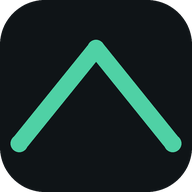
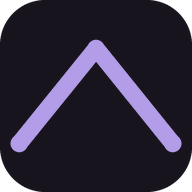
Add files via upload

Changed region(s): [[0.0312, 0.1875, 0.9688, 0.8125]]

diff --git a/index.html b/index.html
@@ -4,7 +4,7 @@
 <meta charset="UTF-8">
 <meta name="viewport" content="width=device-width, initial-scale=1.0, viewport-fit=cover">
 <title>AscentFinancials</title>
-<meta name="theme-color" content="#0F1417">
+<meta name="theme-color" content="#17141D">
 <meta name="mobile-web-app-capable" content="yes">
 <meta name="apple-mobile-web-app-capable" content="yes">
 <meta name="apple-mobile-web-app-status-bar-style" content="black-translucent">
@@ -21,17 +21,17 @@
    La app se usa de noche, en la calle, antes de gastar.
    ══════════════════════════════════════════════════════════ */
 :root{
-  --noche:#0F1417;      /* fondo */
-  --carbon:#171E23;     /* superficie */
-  --carbon2:#1E272D;    /* superficie elevada */
-  --linea:#2A353D;
-  --tiza:#E9EFF2;       /* texto */
-  --humo:#8496A2;       /* texto secundario */
-  --tenue:#54646F;
-  --salida:#4FD1A5;     /* SOLO la fecha de salida y el progreso */
-  --alerta:#F2A93B;
-  --sangre:#E4574B;
-  --sombra:0 2px 14px rgba(0,0,0,.35);
+  --noche:#17141D;      /* fondo */
+  --carbon:#211C2B;     /* superficie */
+  --carbon2:#2A2436;    /* superficie elevada */
+  --linea:#403852;
+  --tiza:#EDE9F5;       /* texto */
+  --humo:#A79CBA;       /* texto secundario */
+  --tenue:#786E8C;
+  --salida:#B39DE8;     /* SOLO la fecha de salida y el progreso */
+  --alerta:#F0C862;
+  --sangre:#FF8A8A;
+  --sombra:0 2px 14px rgba(0,0,0,.45);
   --r:16px;
 }
 *{box-sizing:border-box;margin:0;padding:0;-webkit-tap-highlight-color:transparent}
@@ -64,8 +64,8 @@ header{padding:22px 0 4px;display:flex;justify-content:space-between;align-items
 .cabecera-der{display:flex;align-items:center;gap:9px}
 .nube{font-size:11px;padding:5px 9px;border-radius:99px;border:1px solid var(--linea);
   color:var(--humo);background:var(--carbon);white-space:nowrap}
-.nube.ok{border-color:rgba(79,209,165,.4);color:var(--salida)}
-.nube.pend{border-color:rgba(242,169,59,.4);color:var(--alerta)}
+.nube.ok{border-color:rgba(179,157,232,.4);color:var(--salida)}
+.nube.pend{border-color:rgba(240,200,98,.4);color:var(--alerta)}
 
 /* ─── HERO: la fecha de salida ─── */
 .hero{padding:26px 0 4px}
@@ -86,7 +86,7 @@ header{padding:22px 0 4px;display:flex;justify-content:space-between;align-items
 .stat{background:var(--carbon);border:1px solid var(--linea);border-radius:13px;padding:12px 10px}
 .stat .v{font-size:19px;font-weight:600;letter-spacing:-.02em;margin-top:5px}
 .stat .l{font-size:10px;color:var(--tenue);line-height:1.3;letter-spacing:.04em}
-.stat.aviso{border-color:rgba(242,169,59,.45);background:rgba(242,169,59,.07)}
+.stat.aviso{border-color:rgba(240,200,98,.45);background:rgba(240,200,98,.07)}
 .stat.aviso .v{color:var(--alerta)}
 
 /* ─── barras ─── */
@@ -107,15 +107,15 @@ header{padding:22px 0 4px;display:flex;justify-content:space-between;align-items
 .neg{color:var(--tiza)}
 .chip{display:inline-block;font-size:9.5px;font-weight:600;letter-spacing:.06em;text-transform:uppercase;
   padding:2px 6px;border-radius:5px;margin-left:6px;vertical-align:1px}
-.chip.inv{background:rgba(242,169,59,.16);color:var(--alerta)}
-.chip.ext{background:rgba(79,209,165,.16);color:var(--salida)}
-.chip.rul{background:rgba(228,87,75,.16);color:var(--sangre)}
+.chip.inv{background:rgba(240,200,98,.16);color:var(--alerta)}
+.chip.ext{background:rgba(179,157,232,.16);color:var(--salida)}
+.chip.rul{background:rgba(255,138,138,.16);color:var(--sangre)}
 
 /* ─── aviso ─── */
 .aviso-bloque{border-radius:13px;padding:13px 14px;font-size:13px;line-height:1.4;margin-top:10px}
-.aviso-bloque.rojo{background:rgba(228,87,75,.1);border:1px solid rgba(228,87,75,.3);color:#F2A79E}
-.aviso-bloque.ambar{background:rgba(242,169,59,.09);border:1px solid rgba(242,169,59,.28);color:#F0C583}
-.aviso-bloque.verde{background:rgba(79,209,165,.09);border:1px solid rgba(79,209,165,.28);color:#9BE3CB}
+.aviso-bloque.rojo{background:rgba(255,138,138,.1);border:1px solid rgba(255,138,138,.3);color:#FFB3B3}
+.aviso-bloque.ambar{background:rgba(240,200,98,.09);border:1px solid rgba(240,200,98,.28);color:#F7DFA6}
+.aviso-bloque.verde{background:rgba(123,227,174,.09);border:1px solid rgba(123,227,174,.28);color:#A6EDC9}
 .aviso-bloque b{font-weight:600}
 
 /* ─── navegación ─── */
@@ -128,8 +128,8 @@ nav{position:fixed;bottom:0;left:0;right:0;background:rgba(15,20,23,.94);
 .nav-b svg{display:block;margin:0 auto 3px;width:20px;height:20px;stroke:currentColor;fill:none;stroke-width:1.7;stroke-linecap:round;stroke-linejoin:round}
 
 .fab{position:fixed;right:calc(50% - 240px + 18px);bottom:86px;width:56px;height:56px;border-radius:50%;
-  background:var(--salida);color:#08201A;font-size:30px;font-weight:500;line-height:56px;text-align:center;
-  box-shadow:0 6px 20px rgba(79,209,165,.32);z-index:31}
+  background:var(--salida);color:#1A1226;font-size:30px;font-weight:500;line-height:56px;text-align:center;
+  box-shadow:0 6px 20px rgba(179,157,232,.32);z-index:31}
 @media (max-width:516px){.fab{right:18px}}
 
 /* ─── hoja modal ─── */
@@ -150,7 +150,7 @@ nav{position:fixed;bottom:0;left:0;right:0;background:rgba(15,20,23,.94);
 .tipos{display:grid;grid-template-columns:repeat(4,1fr);gap:6px;margin-bottom:14px}
 .tipo-b{border:1px solid var(--linea);border-radius:11px;padding:9px 2px;font-size:11.5px;
   color:var(--humo);text-align:center;background:var(--carbon2)}
-.tipo-b.on{border-color:var(--salida);color:var(--salida);background:rgba(79,209,165,.1)}
+.tipo-b.on{border-color:var(--salida);color:var(--salida);background:rgba(179,157,232,.1)}
 .monto-caja{display:flex;align-items:center;gap:9px;border:1.5px solid var(--linea);
   border-radius:13px;padding:13px 15px;background:var(--carbon2)}
 .monto-caja:focus-within{border-color:var(--salida)}
@@ -164,7 +164,7 @@ nav{position:fixed;bottom:0;left:0;right:0;background:rgba(15,20,23,.94);
 .cats{display:grid;grid-template-columns:repeat(4,1fr);gap:6px;margin:14px 0}
 .cat-b{border:1px solid var(--linea);border-radius:11px;padding:9px 3px;font-size:10.5px;
   color:var(--humo);text-align:center;background:var(--carbon2);line-height:1.25}
-.cat-b.on{border-color:var(--salida);color:var(--tiza);background:rgba(79,209,165,.11)}
+.cat-b.on{border-color:var(--salida);color:var(--tiza);background:rgba(179,157,232,.11)}
 .cat-b i{display:block;font-size:17px;font-style:normal;margin-bottom:2px}
 
 .campo{margin-top:11px}
@@ -179,10 +179,10 @@ nav{position:fixed;bottom:0;left:0;right:0;background:rgba(15,20,23,.94);
   display:flex;align-items:center;justify-content:center;font-size:12px;color:var(--noche)}
 .tick.on{background:var(--alerta);border-color:var(--alerta)}
 .btn{width:100%;border-radius:13px;padding:14px;font-weight:600;font-size:15.5px;
-  background:var(--salida);color:#08201A;margin-top:16px}
+  background:var(--salida);color:#1A1226;margin-top:16px}
 .btn:disabled{opacity:.32}
 .btn.fantasma{background:none;border:1px solid var(--linea);color:var(--humo);margin-top:9px}
-.btn.peligro{background:none;border:1px solid rgba(228,87,75,.4);color:var(--sangre)}
+.btn.peligro{background:none;border:1px solid rgba(255,138,138,.4);color:var(--sangre)}
 
 /* ─── brindis ─── */
 .brindis{position:fixed;left:50%;transform:translateX(-50%);bottom:104px;z-index:60;
@@ -254,7 +254,8 @@ const SEMILLA = {
     {id:"f14", n:"BitePal (anual)", cC:917,    cat:"sub",   dia:1,  cta:"oro",  estado:"activo"}
   ],
   cuotas:[
-    {id:"q01", n:"Cuota 12 meses", cTotalC:99900, nCuotas:12, pagadas:0, cMesC:8325, cta:"oro", desde:"2026-08"}
+    {id:"q01", n:"Mercadopago", cTotalC:99900, nCuotas:12, pagadas:0, cMesC:8325, cta:"amex",
+     desde:"2026-08", hasta:"2027-07", tea:0, dia:11, fCompra:"2026-07-15"}
   ],
   junta:{n:"Junta 2026", cMesC:100000, numeros:12, miTurno:12, pagadas:7, cRecibirC:1200000, fEstimada:"2026-12"},
   eventos:[],
@@ -289,6 +290,9 @@ function cargar(){
       const s = JSON.parse(raw);
       // migración blanda: campos nuevos no rompen datos viejos
       s.eventos = s.eventos || []; s.deudas = s.deudas || []; s.meses = s.meses || {};
+      // q01 estaba cargada a la Oro y sin fecha de término; el detalle del banco dice Interbank
+      (s.cuotas||[]).forEach(q=>{ if(q.id==="q01"){ q.n="Mercadopago"; q.cta="amex";
+        q.hasta=q.hasta||"2027-07"; q.dia=q.dia||11; q.tea=q.tea||0; q.fCompra=q.fCompra||"2026-07-15"; } });
       return s;
     }
   }catch(e){ console.warn("Estado ilegible, arranco con la semilla", e); }
@@ -400,9 +404,19 @@ function saldos(){
   return s;
 }
 
-function deudaRevolvente(){
+/* Lo que falta de cuotas en una tarjeta. El saldo del banco ya las incluye,
+   así que el arrastre las resta: la cuota tiene fecha de término y se paga
+   por fijos, no con la plata libre. */
+function cuotasPendC(ctaId){
+  return S.cuotas.filter(q=>q.cta===ctaId && q.pagadas<q.nCuotas)
+    .reduce((t,q)=>t + q.cMesC*(q.nCuotas-q.pagadas), 0);
+}
+function revolventeCta(ctaId){
   const s = saldos();
-  return S.ctas.filter(c=>c.tipo==="credito").reduce((t,c)=>t + Math.max(0, s[c.id]||0), 0);
+  return Math.max(0, (s[ctaId]||0) - cuotasPendC(ctaId));
+}
+function deudaRevolvente(){
+  return S.ctas.filter(c=>c.tipo==="credito").reduce((t,c)=>t + revolventeCta(c.id), 0);
 }
 function efectivoPendiente(){
   const s = saldos();
@@ -412,6 +426,8 @@ function efectivoPendiente(){
 function fijosMesC(){
   return S.fijos.filter(f=>f.estado!=="cancelado").reduce((t,f)=>t+f.cC,0);
 }
+function mesLargo(ym){ const p=String(ym).split("-"); return MESES_N[parseInt(p[1],10)-1]+" "+p[0]; }
+
 function cuotasMesC(){
   return S.cuotas.filter(q=>q.pagadas < q.nCuotas).reduce((t,q)=>t+q.cMesC,0);
 }
@@ -588,6 +604,7 @@ function vistaHoy(){
     return '<div class="fila"><div class="txt">'+
       '<div class="t1">'+esc(c.n)+'</div>'+
       '<div class="t2">'+esc(c.banco)+' · usas el '+pct.toFixed(1)+'% · vence el '+c.vence+'</div>'+
+      (cuotasPendC(c.id) ? '<div class="t2" style="color:var(--tenue)">incluye '+fmt(cuotasPendC(c.id))+' en cuotas · fuera del arrastre</div>' : '')+
       '<div class="barra" style="max-width:190px"><i class="'+(pct>=60?"alto":pct>=35?"medio":"")+'" style="width:'+pct+'%"></i></div>'+
       '</div><div class="mto num">'+fmt(sc)+'</div></div>';
   }).join("");
@@ -609,7 +626,7 @@ function vistaHoy(){
 
   const cuotas = S.cuotas.filter(q=>q.pagadas<q.nCuotas).map(q=>
     '<div class="fila"><div class="txt"><div class="t1">'+esc(q.n)+'</div>'+
-    '<div class="t2">'+q.pagadas+' de '+q.nCuotas+' pagadas · sin interés</div></div>'+
+    '<div class="t2">'+q.pagadas+' de '+q.nCuotas+' pagadas · sin interés'+(q.hasta?' · termina '+mesLargo(q.hasta):'')+'</div></div>'+
     '<div class="mto num">'+fmt(q.cMesC)+'</div></div>').join("");
 
   const inv = invitadoC(mk);
@@ -718,7 +735,7 @@ function vistaFijos(){
 
   const cuotas = S.cuotas.map(q=>
     '<div class="fila"><div class="txt"><div class="t1">'+esc(q.n)+'</div>'+
-    '<div class="t2">'+q.pagadas+' de '+q.nCuotas+' · quedan '+fmt(q.cMesC*(q.nCuotas-q.pagadas))+'</div></div>'+
+    '<div class="t2">'+q.pagadas+' de '+q.nCuotas+' · quedan '+fmt(q.cMesC*(q.nCuotas-q.pagadas))+(q.hasta?' · hasta '+mesLargo(q.hasta):'')+'</div></div>'+
     '<div class="mto num">'+fmt(q.cMesC)+'</div></div>').join("");
 
   return '<div class="sect" style="margin-top:20px">'+

diff --git a/sw.js b/sw.js
@@ -1,4 +1,4 @@
-const CACHE='ascentfinancials-v1';
+const CACHE='ascentfinancials-v3';
 const ASSETS=['./','index.html','manifest.json','firebase-config.js','icon-192.png','icon-512.png','icon-maskable-512.png'];
 self.addEventListener('install',e=>{e.waitUntil(caches.open(CACHE).then(c=>c.addAll(ASSETS)));self.skipWaiting()});
 self.addEventListener('activate',e=>{e.waitUntil(caches.keys().then(ks=>Promise.all(ks.filter(k=>k!==CACHE).map(k=>caches.delete(k)))));self.clients.claim()});
